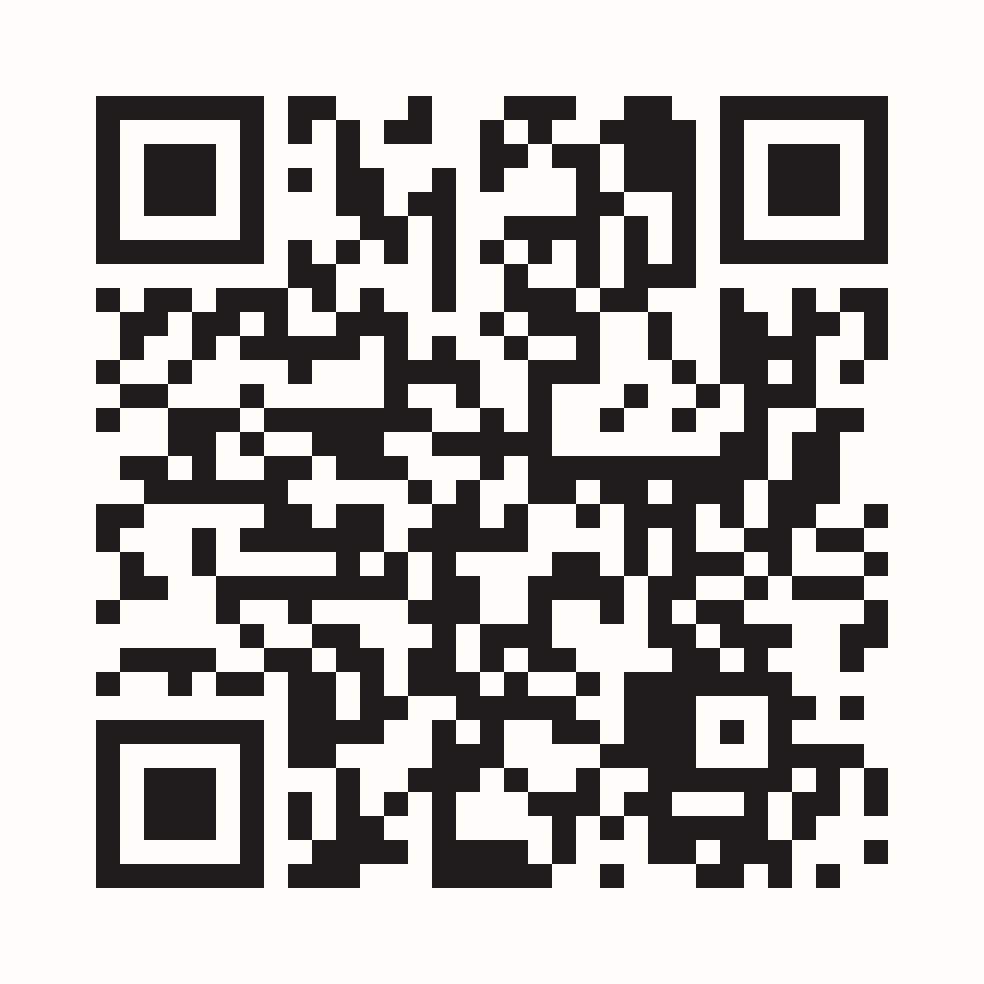
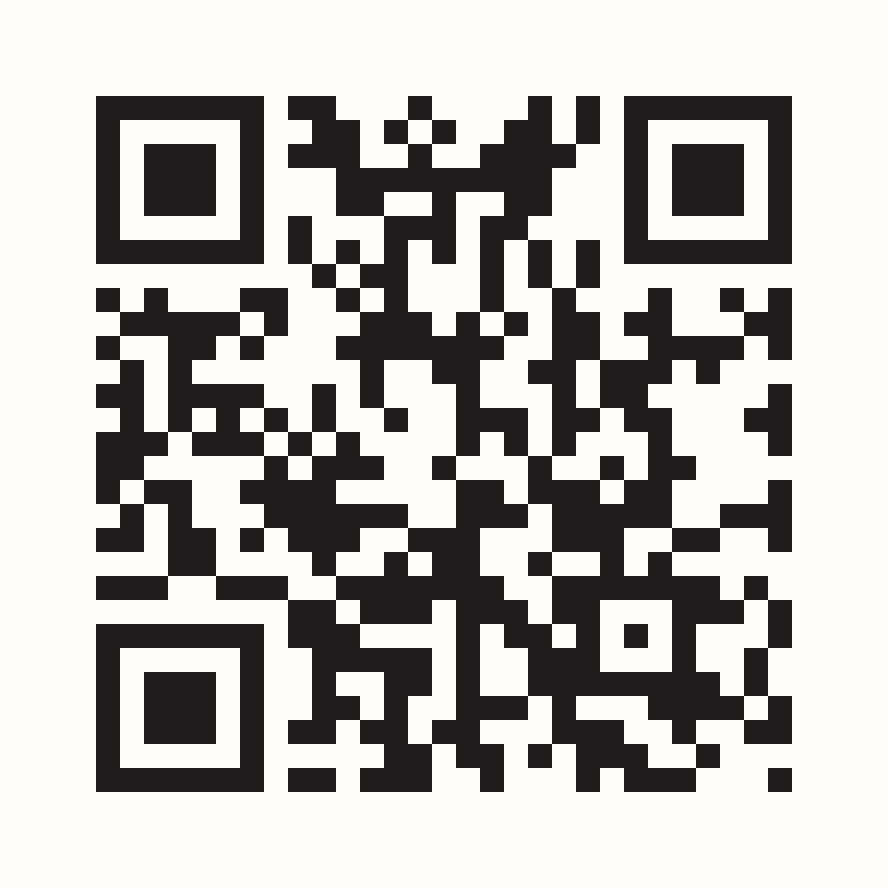
Dirección del sitio en punto-y-aparte.com y QR de Oscar con el dominio nuevo

diff --git a/src/components/compra.tsx b/src/components/compra.tsx
@@ -11,6 +11,7 @@ import {
   maximoPorCompra,
   ponentes,
   regimenesFiscales,
+  sitioUrl,
   venta,
   type Boleto,
 } from "@/lib/evento";
@@ -740,7 +741,7 @@ function Confirmacion({ folio, cantidades, datos }: { folio: string; cantidades:
           </a>
           <a
             href={`https://wa.me/?text=${encodeURIComponent(
-              `Voy a Punto y Aparte ${edicion.anio} (${edicion.fechasLargas}, ${edicion.ciudad}). ¿Te animas? https://puntoy-aparte.netlify.app/2027`,
+              `Voy a Punto y Aparte ${edicion.anio} (${edicion.fechasLargas}, ${edicion.ciudad}). ¿Te animas? ${sitioUrl}/2027`,
             )}`}
             target="_blank"
             rel="noreferrer"

diff --git a/src/app/layout.tsx b/src/app/layout.tsx
@@ -1,5 +1,6 @@
 import type { Metadata } from "next";
 import { Inter, Inter_Tight } from "next/font/google";
+import { sitioUrl } from "@/lib/evento";
 import "./globals.css";
 
 const inter = Inter({
@@ -13,6 +14,7 @@ const interTight = Inter_Tight({
 });
 
 export const metadata: Metadata = {
+  metadataBase: new URL(sitioUrl),
   title: {
     default: "Punto y Aparte · Conversaciones sobre empresa, prosperidad y humanidad",
     template: "%s · Punto y Aparte",

diff --git a/src/lib/evento.ts b/src/lib/evento.ts
@@ -5,6 +5,9 @@ import ponente3 from "@/assets/ponentes/ponente-3.png";
 
 // Contenido de la edición actual. Fuente: "Punto y Aparte — Patrocinios 2027".
 
+// Dirección pública del sitio (servidor Hestia). Se usa en enlaces para compartir y en los QR.
+export const sitioUrl = "https://punto-y-aparte.com";
+
 export const edicion = {
   anio: "2027",
   ciudad: "Guadalajara",
